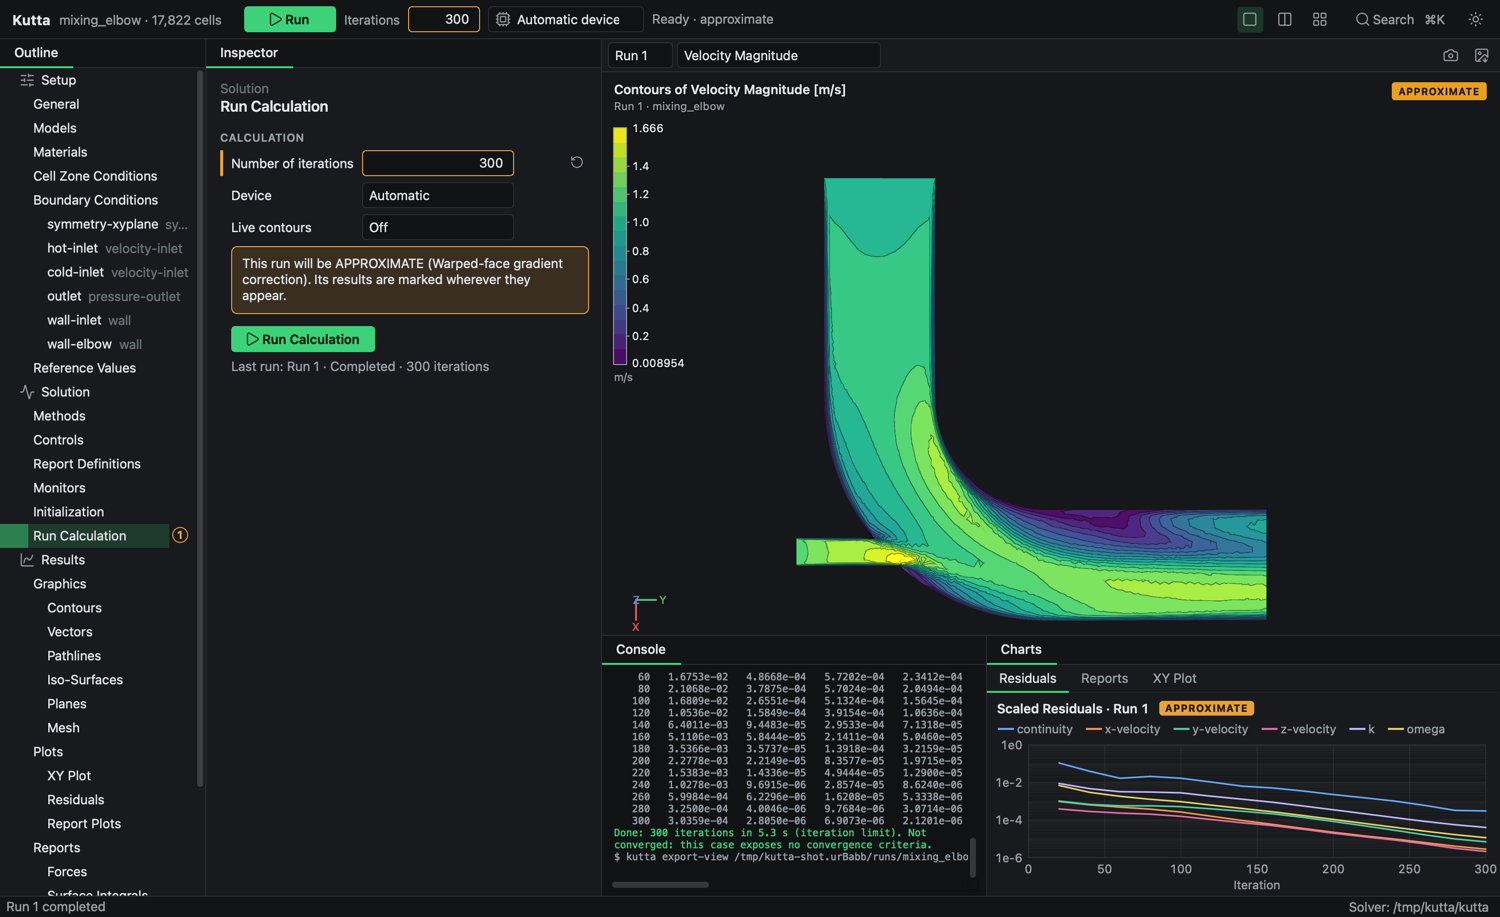
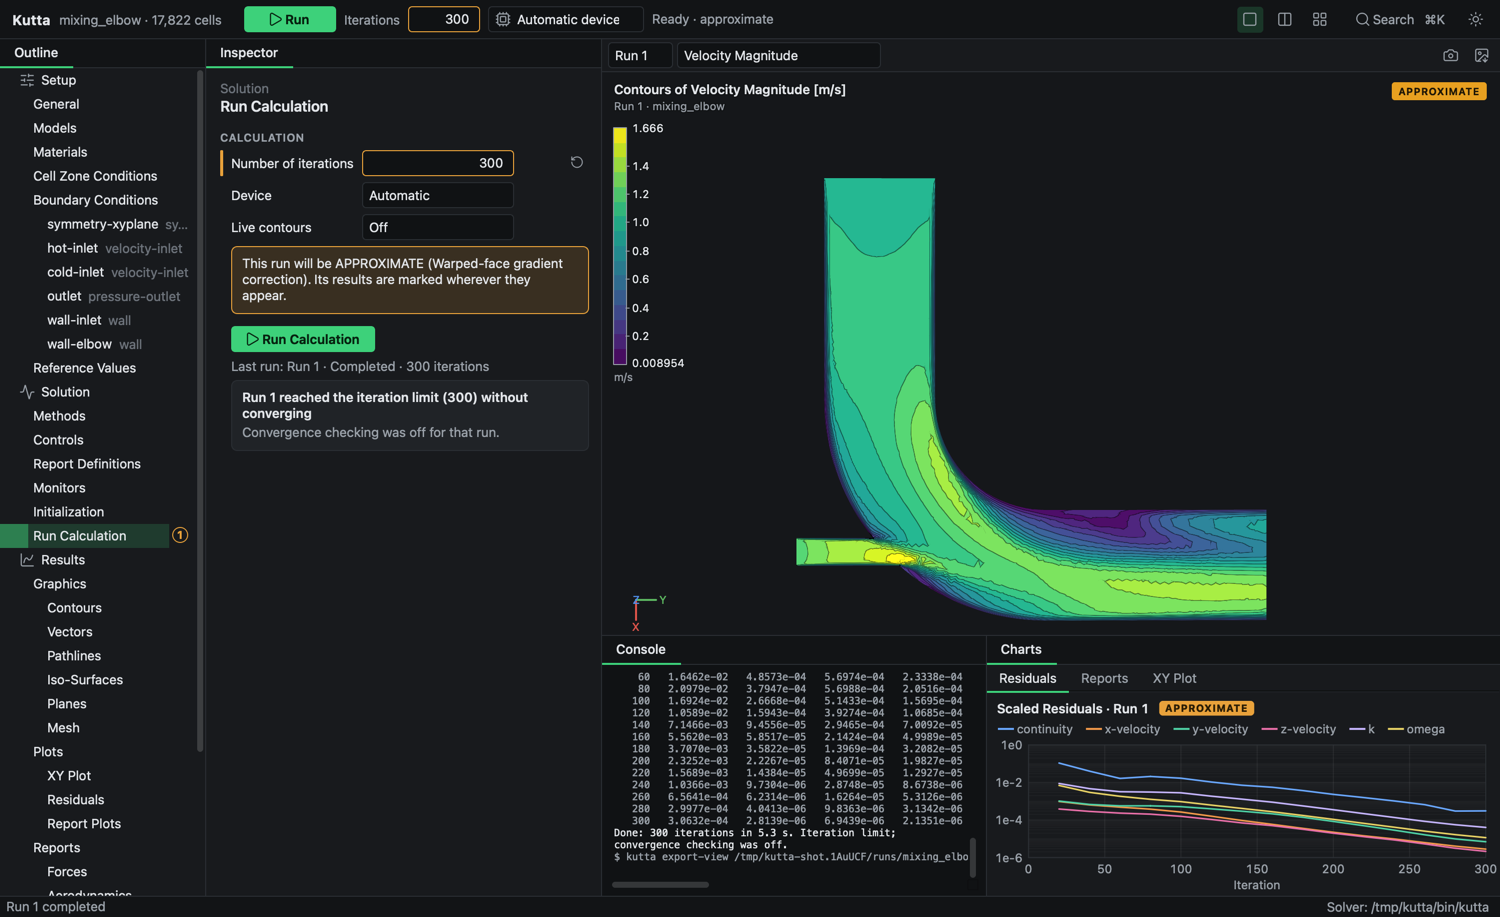
docs: convergence and aero protocol details, new screens
Protocol: the CLI's exact rules for residual criteria parsing, null report
values, converged-wins, nullable coefficients, spec validation and stale
loads removal. PRODUCT and protocol requests describe convergence and aero
as delivered. Screens regenerated with the real CLI, plus elbow-monitors,
car-monitors, car-aero and car-study.

diff --git a/docs/app-protocol.md b/docs/app-protocol.md
@@ -611,9 +611,12 @@ prefixes.)
 
 `<equation>` is each residual name the solver reports (`continuity`,
 `x-velocity`, `y-velocity`, `z-velocity`, `k`, `omega`). Residual `check` and
-`absolute-criterion` come from the case's `residuals/settings` when they parse,
-otherwise `check` is `false` and the criterion is null (an enabled check needs a
-value: an override must supply one). Report entries exist for each force-type
+`absolute-criterion` come from the case's `residuals/settings` when its rows use
+the 7-element layout Kutta parses, otherwise `check` is `false` and the
+criterion is null. A raw row that also lists equations Kutta does not solve
+(energy, for example) stays read-only. A checked residual with a null criterion
+is exit 1 with an issue at `monitors/residual/<equation>/absolute-criterion`,
+whether or not checking is on. Report entries exist for each force-type
 report definition (`force`, `drag`, `lift`, `downforce`); other report kinds are
 listed read-only. Report defaults are Kutta's, not read from the case.
 
@@ -627,20 +630,24 @@ the final partial interval):
   than `ignore-before`, at least Np+1 samples after `ignore-before` exist, and
   `max over k=1..Np of |m(n-k+1) - m(n-k)| / |m(n)|` is **below** the stop
   criterion (Fluent's lag residuals; [Fluent 24.2 User's Guide §36.16](https://ansyshelp.ansys.com/public/Views/Secured/corp/v242/en/flu_ug/flu_ug_convergence_conditions.html)).
-  m(n) = 0 is never met. Coefficients differ from forces by a constant factor,
+  m(n) = 0 is never met, and its value is null. Coefficients differ from forces by a constant factor,
   so the relative change is the same. Kutta evaluates reports at the monitor
   interval, so consecutive values are `run/monitor-interval` iterations apart;
   with interval 1 Np is exactly Fluent's Use Iterations, with a larger interval
   the check is stricter than Fluent's for the same Np.
 - **Combination**: the conditions are the residual condition (when any residual
   is checked) and each active report. `all` needs every condition met at the
-  same sample, `any` needs one. Checking on with no condition emits a warning
-  and runs to the iteration limit.
+  same sample, `any` needs one. Checking on with no condition emits the warning
+  "Convergence checking is on but no residual is checked and no report
+  condition is active; stopping at the requested iteration limit." and runs to
+  the iteration limit.
 
 When met, the run stops after that iteration and writes its outputs normally.
 `done` and `summary.json` then carry `"converged": true` and
-`"stop_reason": "converged"`. A user stop or the iteration limit keeps
-`converged: false`.
+`"stop_reason": "converged"`; this wins over a user stop or the iteration
+limit reached at the same sample. Otherwise `converged` stays false. Human
+output (no `--json`/`--progress`) evaluates the same conditions at the same
+samples.
 
 The `setup` event adds `convergence` (always present):
 
@@ -651,7 +658,8 @@ The `setup` event adds `convergence` (always present):
 ```
 
 `residuals` lists checked equations only. With checking on, each `iteration`
-event adds the state of every condition at that sample:
+event adds the state of every condition at that sample, residuals first and
+then active reports in report order:
 
 ```json
 "convergence":{"met":false,"conditions":[
@@ -689,7 +697,9 @@ stress on the fluid times face area, as in surface reports. `reference` holds
 the values the run solved with (case values after setup overrides; null when
 absent). `report_zones` is the union of the zones of the case's force report
 definitions, in report order (empty when there are none). The per-zone totals
-equal the wall rows of `forces.csv` to floating-point summation order.
+equal the wall rows of `forces.csv` to floating-point summation order. Solve
+deletes an earlier `loads.json` and `aero.json` in the output directory when it
+starts, so neither can describe a different solution.
 
 `kutta aero DIR [--aero spec.json] [--json]` reads only `loads.json`, so it
 takes milliseconds and never re-solves; changing groups, axes or vehicle
@@ -698,8 +708,8 @@ with `--json` prints `{"v":1,"event":"aero", ...the same object}`. A run
 without `loads.json` (solved before this addition) is exit 1 with an `error`
 event; invalid specs are exit 2.
 
-The spec is strict JSON (`v:1`, at most 1 MiB, unknown or duplicate keys
-rejected); every key is optional:
+The spec is strict JSON (at most 1 MiB, unknown or duplicate keys rejected);
+every key is optional, and `v`, when given, must be 1:
 
 ```json
 {"v":1,
@@ -721,9 +731,10 @@ rejected); every key is optional:
 - `groups` have unique nonempty names; their zones must be car zones and each
   zone may be in at most one group. Car zones in no group are listed in
   `ungrouped`.
+- `car_zones` and each group's `zones` are nonempty and list a zone once.
 - `vehicle.front_axle` is the front tyre contact point (m) and `wheelbase` (m,
-  > 0) the distance to the rear contact point along the drag axis. Without a
-  vehicle there is no balance.
+  > 0) the distance to the rear contact point along the drag axis; a vehicle
+  needs both. Without a vehicle there is no balance.
 
 `aero.json`:
 
@@ -756,10 +767,11 @@ rejected); every key is optional:
   axis, `roll` on the drag axis, `yaw` on the lift axis. With the defaults a
   positive pitch raises the front (the nose, upstream) of the car.
 - Coefficients divide forces by `q A` and moments by `q A L`, with `q = ½ ρ V²`
-  from the run's reference values. They are null when density, velocity or area
-  is missing or not positive; moment coefficients are also null without a
-  positive length. `cla` and `cda` are `cl·A` and `cd·A` in m², independent of
-  the reference area. `downforce_share` is the row's share of the total
+  from the run's reference values. Every key of `coefficients` is always
+  present. Force coefficients are null when density, velocity or area is
+  missing or not positive; moment coefficients are also null without a
+  positive length. `cla` and `cda` are lift and drag over `q` in m² (`cl·A`,
+  `cd·A`): they need density and velocity but not the area. `downforce_share` is the row's share of the total
   downforce (null when the total is zero).
 - `lift_to_drag` is total downforce over total drag (null for zero drag).
 - `balance`: with F the total force and M_C the total moment about the moment
@@ -771,5 +783,6 @@ rejected); every key is optional:
   `100 front_load / downforce` and `cop_from_front_axle` is
   `wheelbase · rear_load / downforce`, the distance behind the front axle at
   which the total downforce alone would give the same split. `status` is
-  `"defined"`, `"needs_vehicle"` (no vehicle in the spec; numbers null) or
+  `"defined"`, `"needs_vehicle"` (no vehicle in the spec; every other balance
+  field, including `front_axle` and `wheelbase`, null) or
   `"no_downforce"` (total downforce ≤ 0: loads given, percentage and CoP null).

diff --git a/docs/app-screens/README.md b/docs/app-screens/README.md
@@ -1,12 +1,12 @@
 # Desktop app screens
 
 Captured with `app/scripts/capture_screens.sh` from the real `kutta` CLI
-(`t3/fluent-workbench-ux`, Metal on an M4 Pro) and the Ansys mixing elbow
+(`t3/3cbc5b6a`, Metal on an M4 Pro) and the Ansys mixing elbow
 (`validation/fluent_examples/mixing_elbow`, with its `.dat.h5` as the Fluent
 reference where noted). Each run uses the approved warped-face gradient
-approximation, so results are marked APPROXIMATE. `car-failed` is the one
-exception: the fixture CLI's synthetic car, made to fail part-way as a full
-disk would. Window 1500×940, downscaled to 1500 px wide. Every screen exists
+approximation, so results are marked APPROXIMATE. The `car-*` screens are the
+exception: the fixture CLI's synthetic FSAE car, marked SYNTHETIC, because no
+real car case is on hand. Their numbers show the pages, not CFD results. Window 1500×940, downscaled to 1500 px wide. Every screen exists
 as `-dark.png` and `-light.png`.
 
 | Screen | File | What it shows |
@@ -16,7 +16,7 @@ as `-dark.png` and `-light.png`.
 | Case just opened | `elbow-open` | The case's mesh before any run (zones coloured, polygon edges) and the getting-started steps |
 | Boundary condition | `elbow-setup` | Methods in Fluent's words, only the fields the method uses, units, modified markers, per-field reset |
 | Command palette | `palette` | Cmd/Ctrl-K over commands, pages and settings |
-| All case settings | `settings` | 9,844 settings grouped Fluent-style; Kutta's controls first, raw settings folded |
+| All case settings | `settings` | 9,857 settings grouped Fluent-style; Kutta's controls first, raw settings folded |
 | Live run | `elbow-live` | Contours updating during the run, residuals at the monitor interval, Stop |
 | Finished run | `elbow-run` | Velocity on the symmetry plane, residual history |
 | Kutta vs Fluent | `elbow-fluent` | Kutta's field beside Kutta − Fluent on a diverging map |
@@ -26,3 +26,7 @@ as `-dark.png` and `-light.png`.
 | Run history | `elbow-history` | Two runs with their settings and residuals overlaid |
 | Compare runs | `elbow-compare` | Settings diff, force deltas and the Run 2 − Run 1 field |
 | Failed run | `car-failed` | kutta's error, what to do about it, and the failed run in the top bar (synthetic car, fixture CLI) |
+| Convergence | `elbow-monitors` | Fluent's residual criteria read from the case; the seeded elbow stopped at iteration 120 because every checked residual reached its criterion |
+| Report convergence | `car-monitors` | Residuals plus downforce and drag report conditions (change over the last 5 values below 0.1 %), and which ones stopped the run (synthetic car) |
+| Aerodynamics | `car-aero` | CL, CD, L/D and balance; ClA/CdA, % viscous drag, pitching moment, CoP from the front axle; breakdown by front wing, rear wing, wheels and body; vehicle and zone groups (synthetic car) |
+| Design study | `car-study` | An inlet speed sweep with the reference velocity following: CL, CD, L/D, % front and CoP per speed, MODIFIED variants marked, CD vs speed plotted (synthetic car) |

diff --git a/docs/app-protocol-requests.md b/docs/app-protocol-requests.md
@@ -37,6 +37,23 @@ boundary without a run (0.16 s on the elbow), and zones carry a KUTL edges
 file of their polygon edges, so the app shows the mesh as soon as a case
 opens, with face edges rather than triangle diagonals.
 
+## Done (aero and convergence)
+
+The CLI now gives the numbers an FSAE aero engineer designs with;
+`docs/app-protocol.md` has the wire format.
+
+5. **Convergence criteria.** The case's residual criteria and report
+   convergence conditions (Fluent's lag residual over the last N values) are
+   `monitors/` run controls, off by default. Iteration events carry each
+   condition's state; `done` and `summary.json` say which conditions stopped
+   the run. The seeded elbow with checking on stops at iteration 120 on its
+   own residual criteria (2.8 s on Metal).
+6. **Wall loads and `kutta aero`.** `solve` writes `loads.json` (per-wall
+   pressure and viscous force and moment). `kutta aero` turns it into
+   coefficients, a group breakdown, balance and centre of pressure in
+   milliseconds, so editing groups or the vehicle never re-solves. On the
+   elbow its totals match `forces.csv` to 4e-9 relative.
+
 ## Resolved since
 
 - **The monitor interval changed the solution.** Found while testing request
@@ -68,5 +85,12 @@ opens, with face edges rather than triangle diagonals.
   would make badges more specific.
 - **Stop.** Closing stdin through QProcess's pipe stops the run after the
   current iteration with outputs written; verified by the app's real-CLI test.
+- **Report sampling.** Report conditions use values at the monitor interval,
+  so with an interval above 1 they are stricter than Fluent's per-iteration
+  check for the same N. A per-iteration force reduction would match Fluent
+  exactly, at the cost measured above for residuals.
+- **Residual criteria in other layouts.** Only the 7-element residual rows
+  parse; elbow1's 10-element rows leave checking off with a null criterion,
+  and the user must enter one to check that equation.
 - **Wording.** Fixed: the protocol doc describes the app as a native Qt
   child-process host, not a "sidecar".

diff --git a/app/PRODUCT.md b/app/PRODUCT.md
@@ -70,8 +70,14 @@ it does not mesh and does not replace Fluent's pre-processing.
 - Support verdict per case: supported, approximate (runs only after explicit
   opt-in per approximation), unsupported (blocked). An approximate result must
   never look faithful anywhere: badges, headers, history, exports, screenshots.
-- The CLI has no convergence criteria yet: runs stop at the iteration cap and
-  record `converged=false`. The app must not claim convergence.
+- Convergence criteria (Fluent's residual criteria and report convergence
+  conditions) are off by default, as in older scripts: a run stops at its
+  iteration cap unless the user turns checking on, and the app claims
+  convergence only when the CLI reports which conditions were met.
+- Aero numbers (coefficients, groups, balance, centre of pressure) come from
+  `kutta aero` over the run's wall loads, so changing groups or the vehicle
+  never re-solves. Design studies are the app queueing ordinary runs; each
+  variant is a run with its own provenance.
 
 ## Evidence on Hand
 

diff --git a/app/fixtures/README.md b/app/fixtures/README.md
@@ -13,6 +13,9 @@ can find one; every fixture result is labelled FIXTURE REPLAY or SYNTHETIC.
   nothing when settings are overridden; the run says so. The recording has no
   volume snapshot, so streamlines, iso-surfaces and line probes on the elbow
   need the real CLI; sections and surface integrals work from its surfaces.
+  It predates convergence criteria and `loads.json`, so it also covers the
+  app's paths for an older CLI (no Monitors controls; Aerodynamics asks for a
+  re-solve).
 - `fsae_car*`: synthetic, generated in code (`SyntheticCar.cpp`), to exercise
   external-aero screens and the 10M-triangle viewport benchmark. Nothing about
   it is a CFD result.
